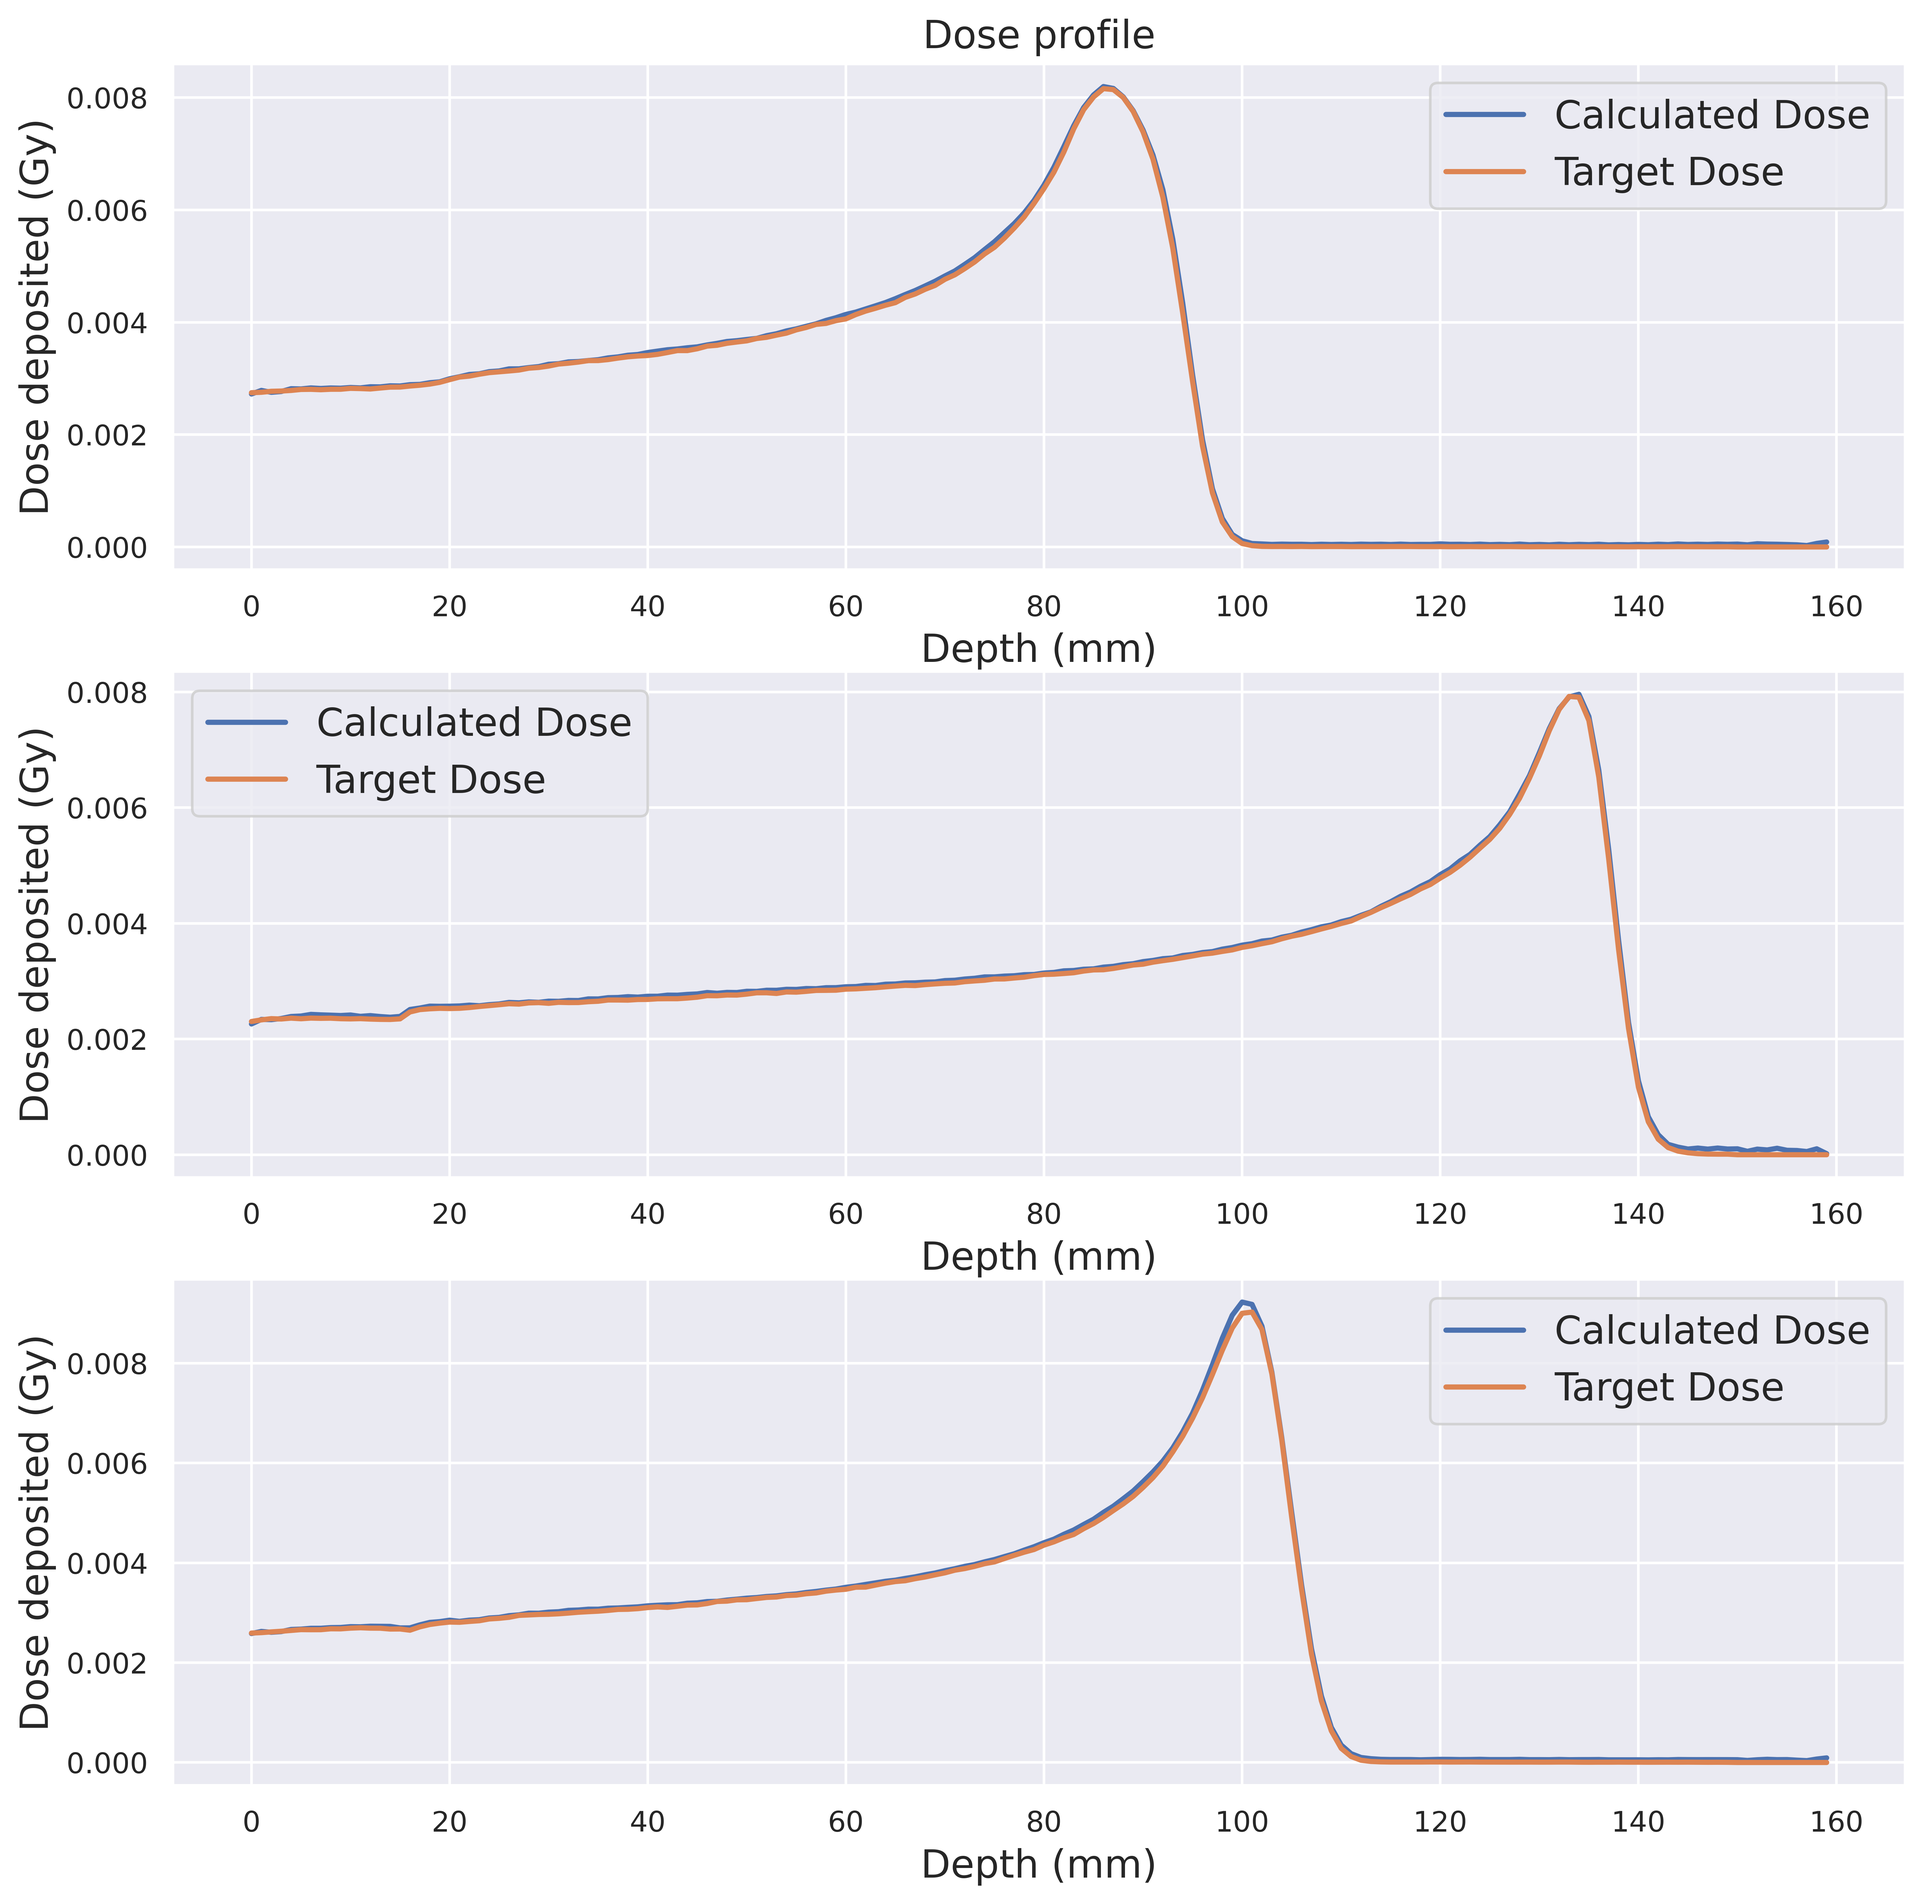
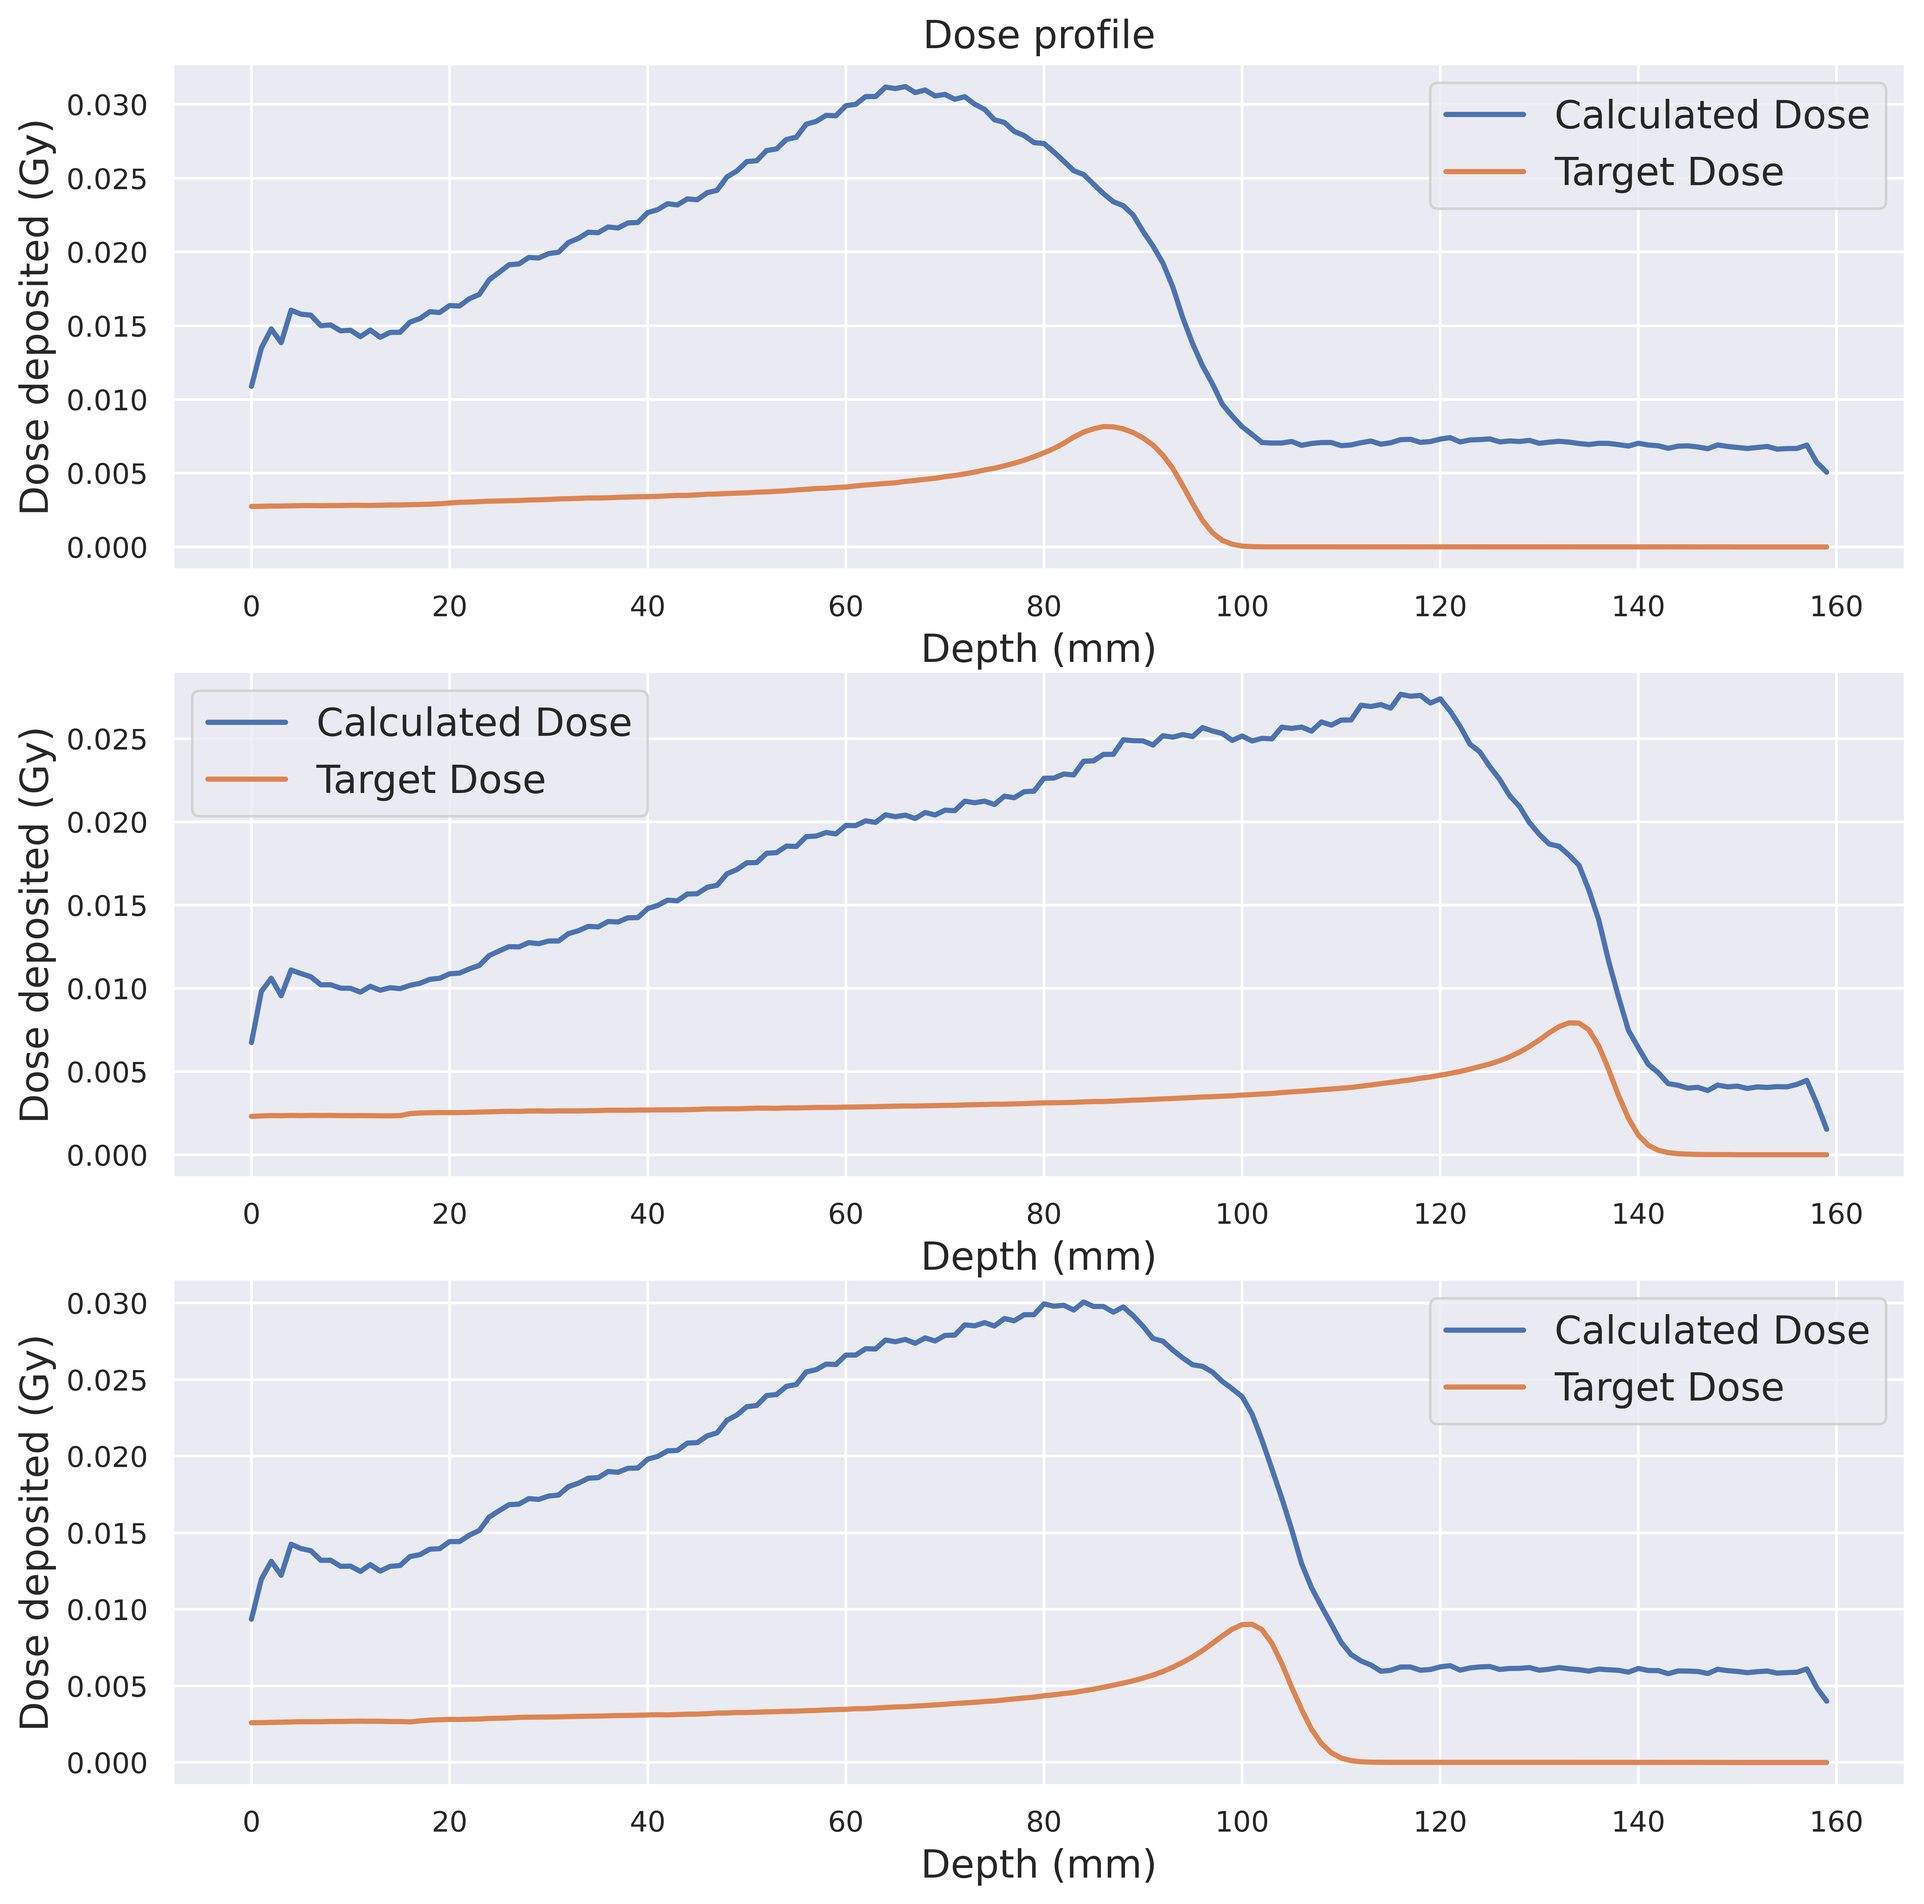
improving plots

diff --git a/deep-learning-dose-activity-dictionary/utils.py b/deep-learning-dose-activity-dictionary/utils.py
@@ -471,25 +471,30 @@ def torch_cubic_interp1d_2d(x, y, x_new):
 
 # Plotting results
 
-def plot_slices(trained_model, loader, device, CT_flag=False, mean_input=0, std_input=1,
-                mean_output=0, std_output=1, z_slice = 35,
+def plot_slices(trained_model, loader, device, CT_flag=False, CT_manual=None, mean_input=0, std_input=1,
+                mean_output=0, std_output=1, z_slice = None,
                 save_plot_dir = "images/sample.png", patches=False, patch_size=56):
         
     input, output, target, beam_energy = get_input_output_target(trained_model, loader, device, patches, patch_size)
-    if CT_flag:
+    n_plots = 3
+    
+    if CT_flag:  # This is if the network was trained with the CT as a second channel
         CT = input[:, 1, :, :, :]  # CT is the second channel
-        # CT = 65.3300 + CT * 170.0528  ###
-        # CT = (CT + 1000) / 2655
+    elif CT_manual is not None:  # Alternatively, the user can manually pass the CT as input 
+        CT = torch.stack([torch.tensor(CT_manual)] * n_plots)    
+        CT_flag = True
+    
     input = input[:, 0, :, :, :]  # Plot the activity only
     
     sns.set()
-    n_plots = 3
     fig, axs = plt.subplots(n_plots, 4, figsize=[13, 8])
 
     input_scaled = mean_input + input * std_input
     output_scaled = mean_output + output * std_output  # undoing normalization
     target_scaled = mean_output + target * std_output
     font_size = 15
+    max_target = torch.max(target_scaled)
+    max_input = torch.max(input_scaled)
 
     # Add titles to the columns
     column_titles = ['Input (Activation)', 'Target (Reference dose)', 'Output (Calculated dose)', 'Error = |Output - Target|']
@@ -497,9 +502,19 @@ def plot_slices(trained_model, loader, device, CT_flag=False, mean_input=0, std_
         ax.set_title(col, fontsize=font_size)
 
     for idx in range(n_plots):
-        input_img = input_scaled[idx].cpu().detach().squeeze(0).squeeze(0)[:,:,z_slice]
-        out_img = output_scaled[idx].cpu().detach().squeeze(0).squeeze(0)[:,:,z_slice]
-        target_img = target_scaled[idx].cpu().detach().squeeze(0).squeeze(0)[:,:,z_slice]
+        input_img = input_scaled[idx].cpu().detach().squeeze(0).squeeze(0)
+        out_img = output_scaled[idx].cpu().detach().squeeze(0).squeeze(0)
+        target_img = target_scaled[idx].cpu().detach().squeeze(0).squeeze(0)
+        if z_slice is None:
+            idcs_max_target = torch.where(target_img == torch.max(target_img))
+            z_slice_idx = idcs_max_target[-1].item()  # Plotting the slice where the value of the dose is maximum
+        else:
+            z_slice_idx = z_slice  # if we specify a z slice we use it
+            
+        input_img = input_img[:,:,z_slice_idx]
+        out_img = out_img[:,:,z_slice_idx]
+        target_img = target_img[:,:,z_slice_idx]
+        
         if CT_flag:
             # mask = np.where(target_img > 0.1 * torch.max(target_img), 0.8, 0.0)  # Masking 0 values to be able to see the CT ###
             mask_input = ((input_img - torch.min(input_img)) / (torch.max(input_img) - torch.min(input_img))).numpy() * 1.4
@@ -507,14 +522,12 @@ def plot_slices(trained_model, loader, device, CT_flag=False, mean_input=0, std_
             mask_input[mask_input > 1.0] = 1.0
             mask_target[mask_target > 1.0] = 1.0
             
-            CT_idx = CT[idx].cpu().detach().squeeze(0).squeeze(0)[:,:,z_slice]
-
+            CT_idx = CT[idx].cpu().detach().squeeze(0).squeeze(0)[:,:,z_slice_idx]
             vmin = -1
             vmax = 2.5
-            axs[idx, 0].imshow(np.flipud(CT_idx).T, cmap='gray', vmin=vmin, vmax=vmax)
-            axs[idx, 1].imshow(np.flipud(CT_idx).T, cmap='gray', vmin=vmin, vmax=vmax)
-            axs[idx, 2].imshow(np.flipud(CT_idx).T, cmap='gray', vmin=vmin, vmax=vmax)
-            axs[idx, 3].imshow(np.flipud(CT_idx).T, cmap='gray', vmin=vmin, vmax=vmax)
+            for plot_column in range(4):
+                axs[idx, plot_column].imshow(np.flipud(CT_idx).T, cmap='gray', vmin=vmin, vmax=vmax)
+            
         else:    
             mask_input = np.ones_like(input_img).astype(float)  # Leave all if no CT is provided
             mask_target = np.ones_like(input_img).astype(float)  # Leave all if no CT is provided
@@ -523,7 +536,7 @@ def plot_slices(trained_model, loader, device, CT_flag=False, mean_input=0, std_
         mask_target = np.flipud(mask_target).T
         
         diff_img = abs(target_img - out_img)
-        c1 = axs[idx, 0].imshow(np.flipud(input_img).T, cmap='jet', aspect='auto', alpha=mask_input)
+        c1 = axs[idx, 0].imshow(np.flipud(input_img).T, vmax=max_input, cmap='jet', aspect='auto', alpha=mask_input)
         axs[idx, 0].set_xticks([])
         axs[idx, 0].set_yticks([])
         if idx == 0:
@@ -531,13 +544,13 @@ def plot_slices(trained_model, loader, device, CT_flag=False, mean_input=0, std_
             axs[idx, 0].plot([40, 140], [10, 10], linewidth=8, color='white', label='1 cm')
             axs[idx, 0].text(75, 19, '10 cm', color='white', fontsize=font_size)
 
-        c2 = axs[idx, 1].imshow(np.flipud(target_img).T, cmap='jet', aspect='auto', alpha=mask_target)
+        c2 = axs[idx, 1].imshow(np.flipud(target_img).T, vmax=max_target, cmap='jet', aspect='auto', alpha=mask_target)
         axs[idx, 1].set_xticks([])
         axs[idx, 1].set_yticks([])
-        axs[idx, 2].imshow(np.flipud(out_img).T, cmap='jet', vmax=torch.max(target_img), aspect='auto', alpha=mask_target)
+        axs[idx, 2].imshow(np.flipud(out_img).T, cmap='jet', vmax=max_target, aspect='auto', alpha=mask_target)
         axs[idx, 2].set_xticks([])
         axs[idx, 2].set_yticks([])
-        axs[idx, 3].imshow(np.flipud(diff_img).T, cmap='jet', vmax=torch.max(target_img), aspect='auto', alpha=mask_target)
+        axs[idx, 3].imshow(np.flipud(diff_img).T, cmap='jet', vmax=max_target, aspect='auto', alpha=mask_target)
         axs[idx, 3].set_xticks([])
         axs[idx, 3].set_yticks([])
 
@@ -551,13 +564,13 @@ def plot_slices(trained_model, loader, device, CT_flag=False, mean_input=0, std_
         fig.text(0.0, 0.2, f'{energy_beam_3:.1f} MeV Beam', va='center', rotation='vertical', fontsize=font_size, fontstyle='italic')
 
     cbar_ax1 = fig.add_axes([0.029, 0.01, 0.22, 0.03])
-    cbar_ax2 = fig.add_axes([0.28, 0.01, 0.7, 0.03])
+    cbar_ax2 = fig.add_axes([0.3, 0.01, 0.66, 0.03])
 
     cbar1 = fig.colorbar(c1, cax=cbar_ax1, orientation='horizontal')
     cbar1.set_label(label=r'$\beta^+$ Decay Count $\ / \ mm^3$', size=font_size)
     cbar1.ax.tick_params(labelsize=font_size)
 
-    cbar2 = fig.colorbar(c2, cax=cbar_ax2, orientation='horizontal')
+    cbar2 = fig.colorbar(c2, cax=cbar_ax2, orientation='horizontal', format='%.1e')
     cbar2.set_label(label='Dose ($Gy$)', size=font_size)
     cbar2.ax.xaxis.get_offset_text().set(size=font_size)
     cbar2.ax.tick_params(labelsize=font_size)

diff --git a/deep-learning-dose-activity-dictionary/dad-nn.py b/deep-learning-dose-activity-dictionary/dad-nn.py
@@ -26,6 +26,14 @@ input_dir = "data/dataset_1/input"
 output_dir = "data/dataset_1/output"
 dataset_dir = "data/dataset_1"
 
+###
+
+# a = torch.randint(10, (4,4))
+# print(a.repeat(4, 1))
+# stop
+
+###
+
 # Statistics of the dataset (previously found for the entire Prostate dataset)
 mean_input = 0.002942
 std_input = 0.036942
@@ -90,7 +98,7 @@ test_size = len(dataset) - train_size - val_size
 train_dataset, val_dataset, test_dataset = torch.utils.data.random_split(dataset, [train_size, val_size, test_size])
 
 # Create DataLoaders for training
-batch_size = 4###1
+batch_size = 1
 num_workers = 4
 train_loader = DataLoader(train_dataset, batch_size=batch_size, shuffle=True, num_workers=num_workers)
 val_loader = DataLoader(val_dataset, batch_size=batch_size, shuffle=False, num_workers=num_workers)
@@ -103,10 +111,10 @@ model = SwinUNETR(img_size=img_size, in_channels=in_channels, out_channels=1).to
 
 model_dir = 'models/trained-models/SwinUNETR-v13.pth'
 timing_dir = 'models/training-times/training-time-SwinUNETR-v13.txt'
-n_epochs = 100###30
+n_epochs = 5###30
 save_plot_dir = "images/SwinUNETR-v13-loss.png"
-trained_model = train(model, train_loader, val_loader, epochs=n_epochs, mean_output=mean_output, std_output=std_output,
-                      model_dir=model_dir, timing_dir=timing_dir, save_plot_dir=save_plot_dir)
+# trained_model = train(model, train_loader, val_loader, epochs=n_epochs, mean_output=mean_output, std_output=std_output,
+#                       model_dir=model_dir, timing_dir=timing_dir, save_plot_dir=save_plot_dir)
 
 # Loading the trained model
 model_dir = "models/trained-models/SwinUNETR-v13.pth"
@@ -137,9 +145,9 @@ plot_loader = test_loader
 
 # Plotting slices of the dose
 save_plot_dir = "images/SwinUNETR-v13-sample.png"
-plot_slices(trained_model, plot_loader, device, CT_flag=CT_flag, mean_input=mean_input, std_input=std_input,
-            mean_output=mean_output, std_output=std_output,
-            save_plot_dir=save_plot_dir, z_slice=img_size[2]//2, patches=patches, patch_size=img_size[2]//2) 
+plot_slices(trained_model, plot_loader, device, CT_flag=CT_flag, CT_manual=CT, 
+            mean_input=mean_input, std_input=std_input, mean_output=mean_output, std_output=std_output,
+            save_plot_dir=save_plot_dir, patches=patches) 
  
 # Plotting the dose-depth profiles
 save_plot_dir = "images/SwinUNETR-v13-ddp.png"

diff --git a/deep-learning-dose-activity-dictionary/train_model.py b/deep-learning-dose-activity-dictionary/train_model.py
@@ -16,7 +16,7 @@ def train(model, train_loader, val_loader, epochs=10, model_dir='.', timing_dir 
     l2_loss = nn.MSELoss()
     beta = 2e-2
     threshold = 0.2
-    alpha = 0 / 1000  # ratio between the losses
+    alpha = 1000 / 1000  # ratio between the losses
     for epoch in range(epochs):
         logs = {}
         train_loss = 0.0
